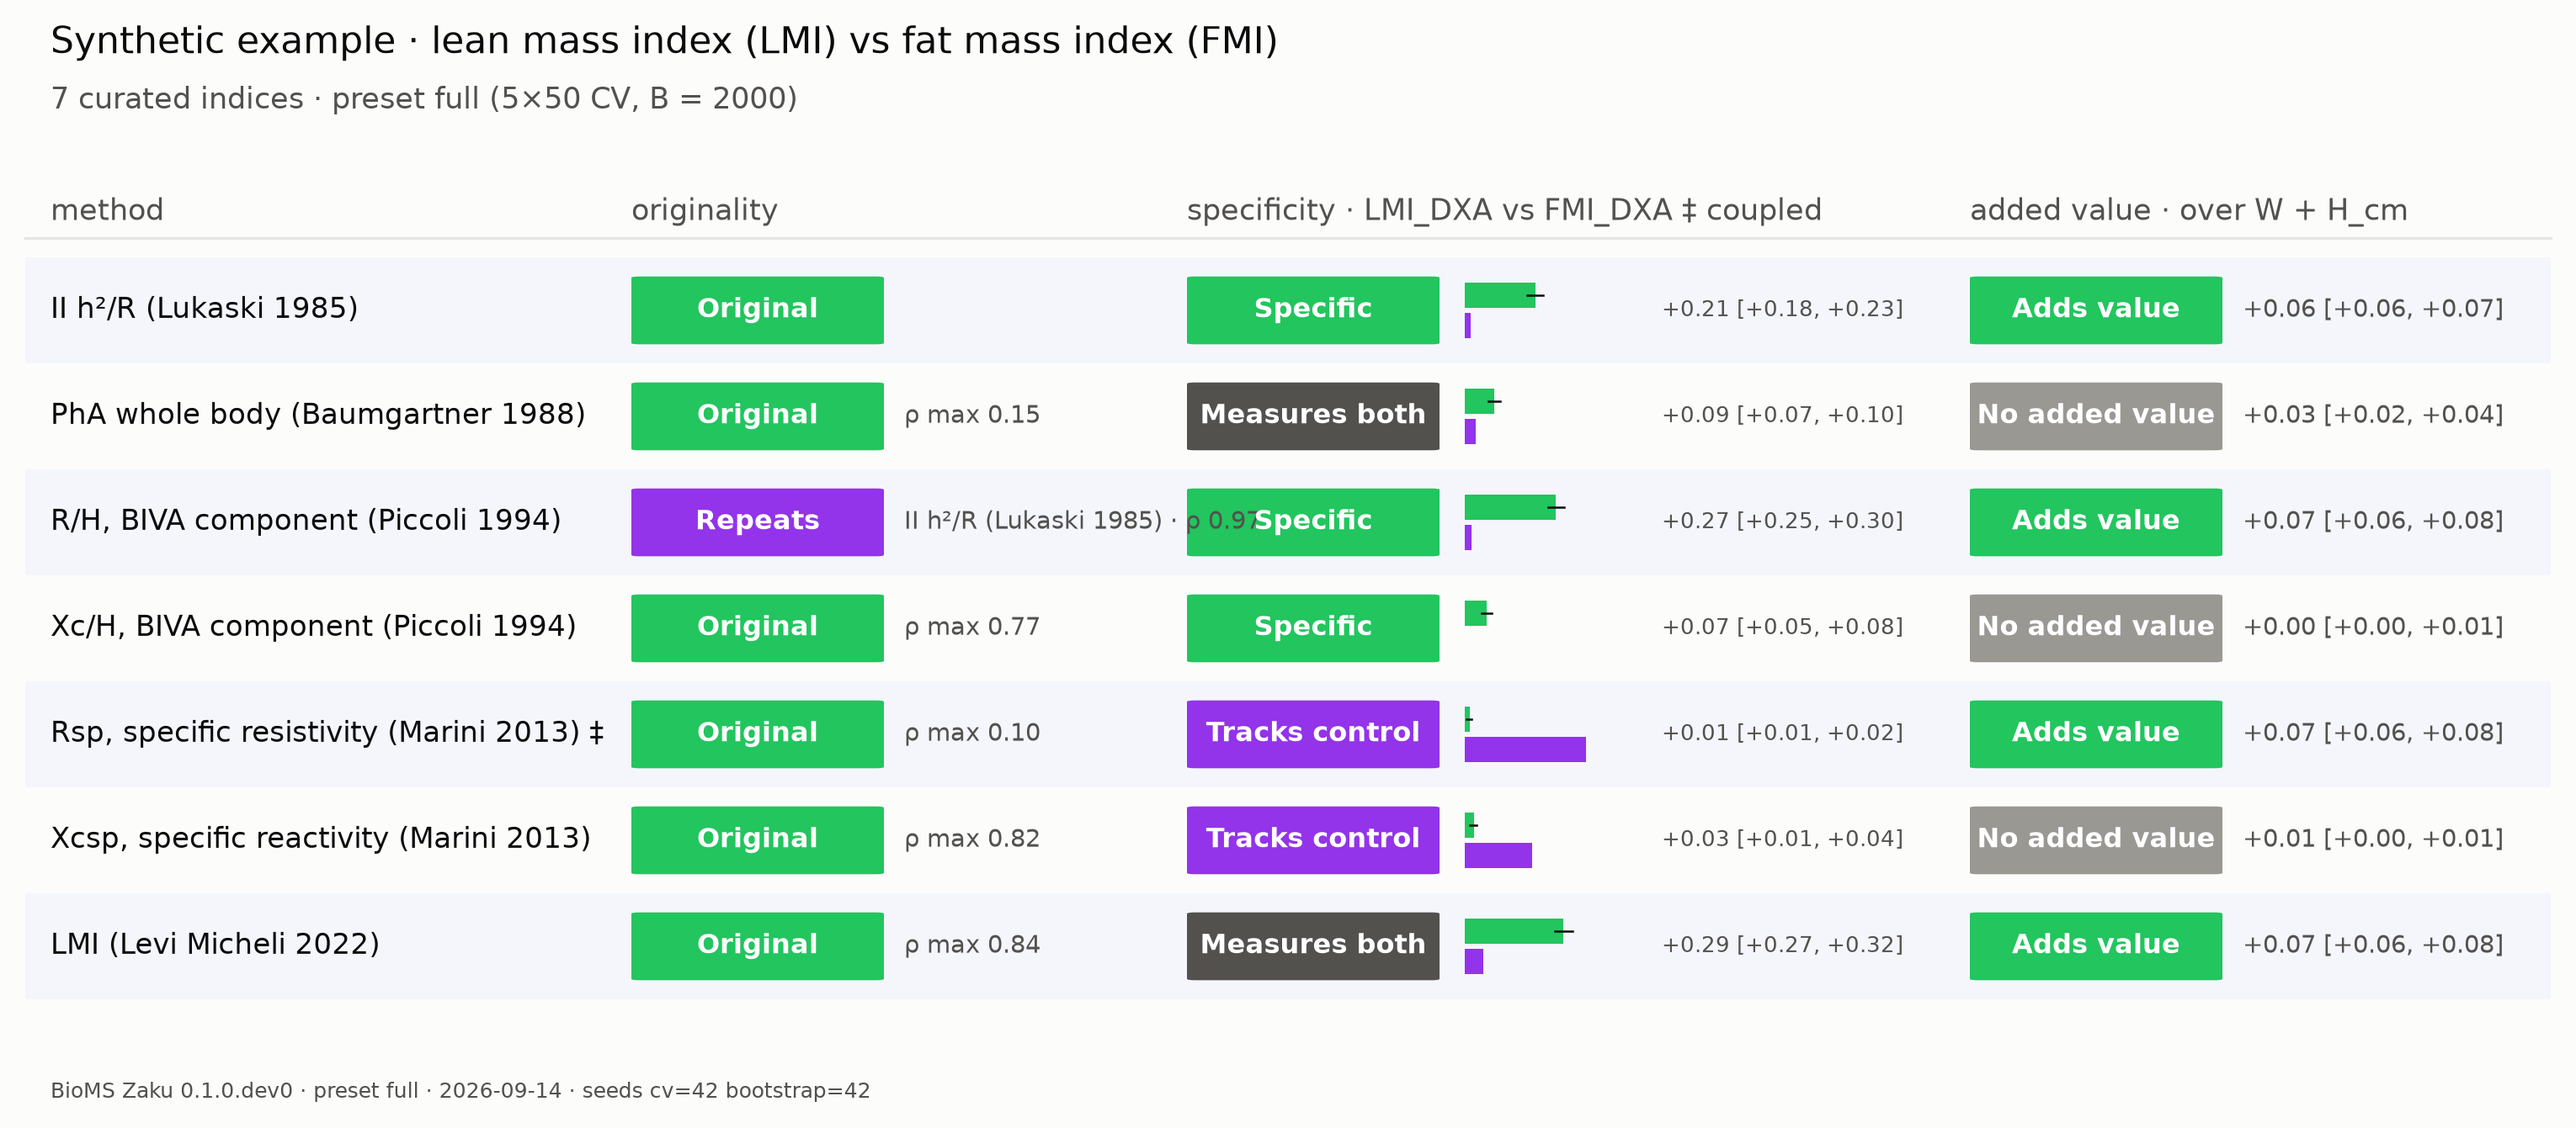
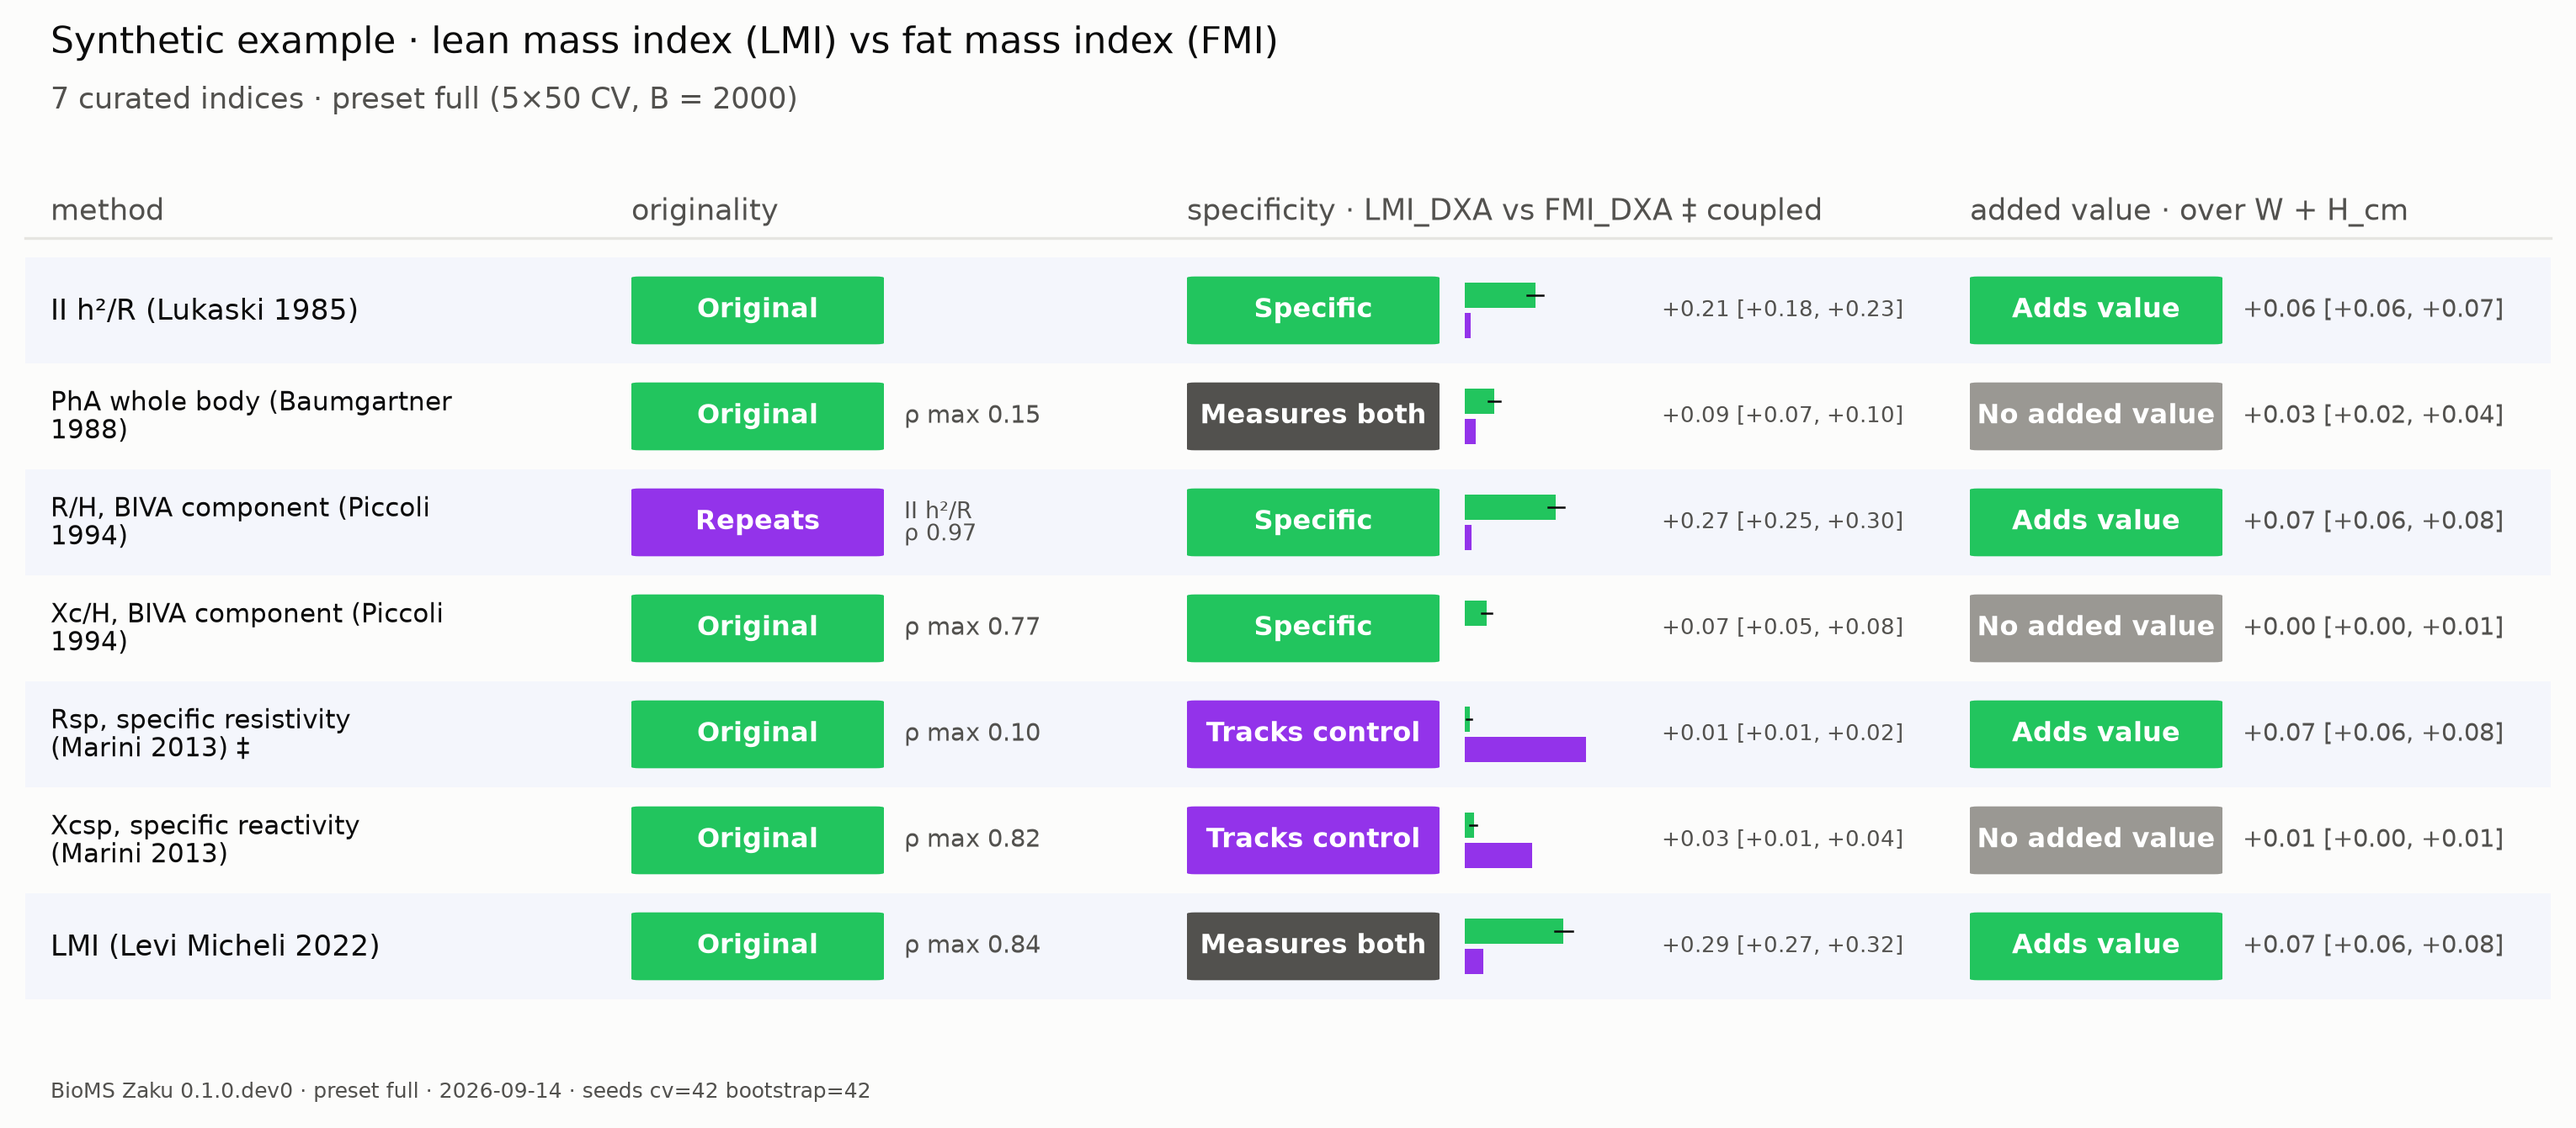
scorecard: wrap long method labels and split the repeat note so no text runs into the pills (inspection feedback)

diff --git a/src/bioms_zaku/plots.py b/src/bioms_zaku/plots.py
@@ -22,6 +22,7 @@ from __future__ import annotations
 from pathlib import Path
 
 import re
+import textwrap
 
 import numpy as np
 import pandas as pd
@@ -560,7 +561,7 @@ def scorecard(alg: pd.DataFrame, red: pd.DataFrame, aud: pd.DataFrame, uti: pd.D
     if alg.empty or red.empty or aud.empty:
         return
     from matplotlib.patches import FancyBboxPatch
-    order = _order(alg); lab = _label(alg)
+    order = _order(alg); lab = _label(alg); short = _short(lab)
     conf = alg.set_index(["method_id", "stratum"]).provenance_confidence.to_dict()
     oovd = alg.set_index(["method_id", "stratum"]).get("out_of_validity_frac", pd.Series(dtype=float)).to_dict()
     for st in sorted(alg.stratum.unique()):
@@ -597,13 +598,18 @@ def scorecard(alg: pd.DataFrame, red: pd.DataFrame, aud: pd.DataFrame, uti: pd.D
             if i % 2 == 0:
                 ax.add_patch(FancyBboxPatch((0, y - 0.5), 100, 1.0, boxstyle="square,pad=0", fc="#f4f6fc", ec="none"))
             flags = (" †" if oovd.get((m, st), 0) > 0.5 else "") + (" *" if conf.get((m, st), "high") != "high" else "") + (" ‡" if m in par else "")
-            ax.text(x_m, y, lab.get(m, m) + flags, fontsize=8.2, color=C["ink"], va="center")
+            # EN: the method column is 23 % of the sheet; labels longer than that wrap to two lines instead of running into the pill
+            wrapped = textwrap.wrap(lab.get(m, m), 30)[:2]
+            if len(textwrap.wrap(lab.get(m, m), 30)) > 2:
+                wrapped[1] = wrapped[1][:27] + "…"
+            ax.text(x_m, y, "\n".join(wrapped) + flags, fontsize=8.2 if len(wrapped) == 1 else 7.4, color=C["ink"], va="center", linespacing=1.05)
             ident = r.loc[m, "identity_of"] if pd.notna(r.loc[m, "identity_of"]) else None
             if ident:
-                pill(x_o, y, S("identical"), C["control"]); ax.text(x_o + pw + 0.8, y, lab.get(ident, ident), fontsize=7, color=C["ink2"], va="center")
+                pill(x_o, y, S("identical"), C["control"]); ax.text(x_o + pw + 0.8, y, f"= {short.get(ident, ident)}", fontsize=6.6, color=C["ink2"], va="center")
             elif bool(r.loc[m, "redundant"]):
                 pred = r.loc[m, "predecessor_id"]
-                pill(x_o, y, S("repeats"), C["control"]); ax.text(x_o + pw + 0.8, y, f"{lab.get(pred, pred)} · ρ {r.loc[m, 'rho_sp_max']:.2f}", fontsize=7, color=C["ink2"], va="center")
+                # EN: two short lines (name / ρ) so the note stays inside the originality column (ends at x_s)
+                pill(x_o, y, S("repeats"), C["control"]); ax.text(x_o + pw + 0.8, y, f"{short.get(pred, pred)}\nρ {r.loc[m, 'rho_sp_max']:.2f}", fontsize=6.6, color=C["ink2"], va="center", linespacing=1.05)
             else:
                 pill(x_o, y, S("original"), C["specific"])
                 if np.isfinite(r.loc[m, "rho_sp_max"]):

diff --git a/CHANGELOG.md b/CHANGELOG.md
@@ -1,6 +1,8 @@
 # Changelog
 
 ## 0.1.0.dev0 — 2026-09-10 (unreleased)
+- Scorecard layout (2026-09-14, after inspection): method labels wrap to two lines inside their column; the "repeats" note
+  is two short lines (predecessor / ρ). No text runs into a pill any more.
 - Geometry of target and control (2026-09-14, contract v0.6, §3.3): implicit exponent vectors of every continuous target and
   control (OLS of the logs, with fit R²), Σ-cosines index–target, index–control and target–control, the exact identity
   r_log = cos_Σ·√R² for monomial indices (gap reported for fitted vectors), and two flags with declared thresholds:
